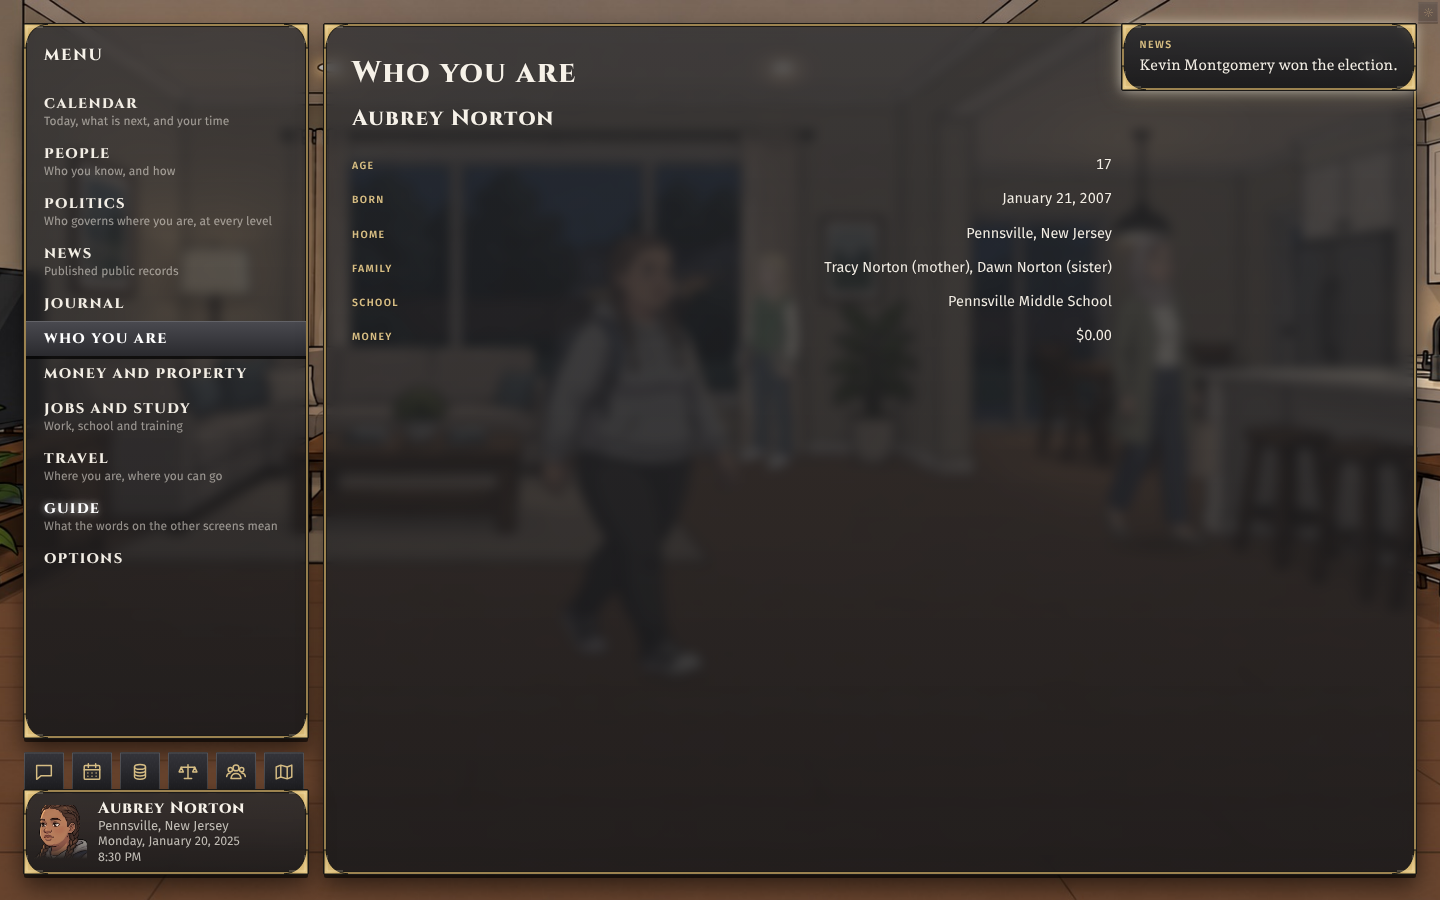
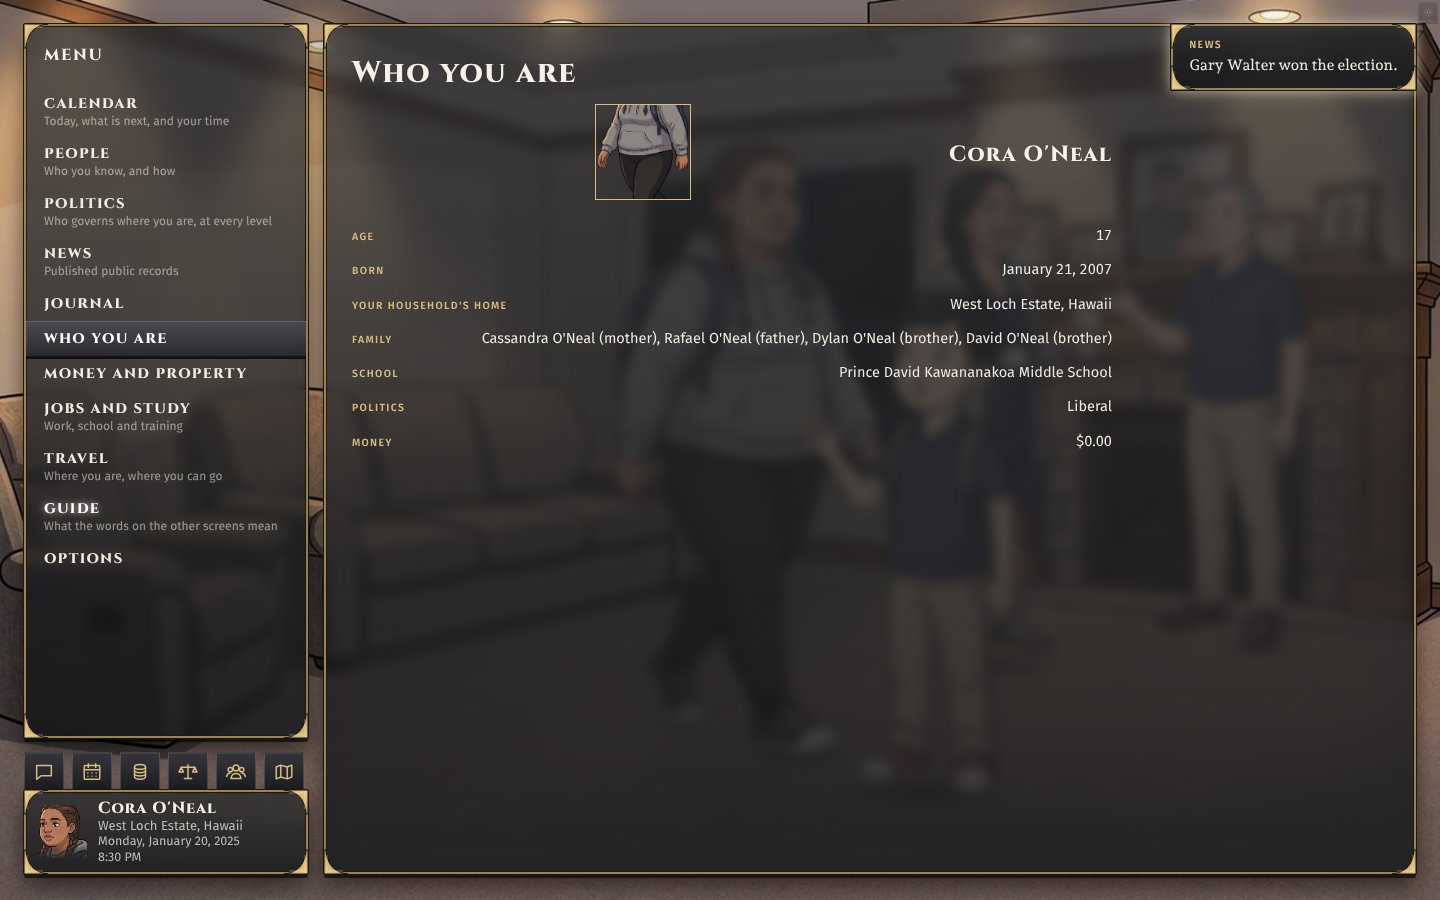
Who you are: temperament read by its record key, a face-cropped portrait
Claude-Session: https://claude.ai/code/session_018ZRyQYi1wNLPQsR7vHDasw

diff --git a/src/bench/card.ts b/src/bench/card.ts
@@ -11,7 +11,7 @@ import {
   BALANCED_TRAIT,
   PEOPLE_TRAITS,
   TRAIT_SHAPES,
-  peopleTraitId,
+  PEOPLE_MIND_VERSION,
 } from "../simulation/people-trait-definitions";
 import { VIEWS_MODULE_ID, viewOf } from "../core2/modules/views";
 
@@ -110,7 +110,7 @@ export function personCard(core: CoreState, personId: string) {
       : null,
     // The temperament recorded on the person, each in the pole's own word.
     traits: PEOPLE_TRAITS.flatMap((trait) => {
-      const value = person.traits[peopleTraitId(trait)];
+      const value = person.traits[`${PEOPLE_MIND_VERSION}:${trait}`];
       if (value === undefined) return [];
       const shape = TRAIT_SHAPES[trait];
       return [

diff --git a/src/bench/play.css b/src/bench/play.css
@@ -1542,15 +1542,26 @@ body.dev .dev-ring {
 .character {
   display: flex;
   align-items: center;
-  gap: 16px;
+  justify-content: flex-start;
+  gap: 18px;
   margin-bottom: 14px;
   column-span: all;
+  grid-column: 1 / -1;
+}
+.character .portrait-frame {
+  width: 120px;
+  height: 120px;
+  overflow: hidden;
+  border: 1px solid var(--gold);
+  background: var(--iron);
 }
 .character .portrait {
-  width: 96px;
-  height: 96px;
+  width: 100%;
+  height: 100%;
   object-fit: cover;
-  border: 1px solid var(--gold);
+  object-position: 50% 0;
+  transform: scale(2.1);
+  transform-origin: 50% 8%;
 }
 .character .name {
   font: 600 22px var(--name);
